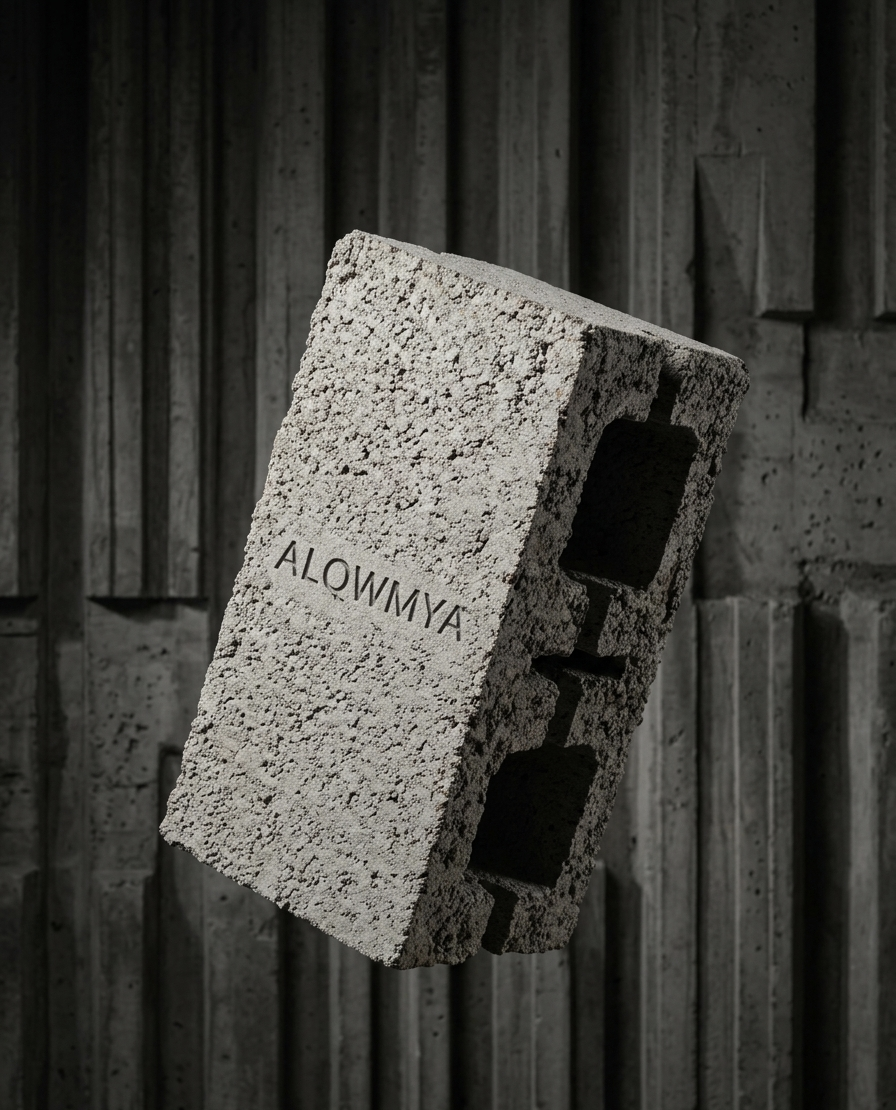
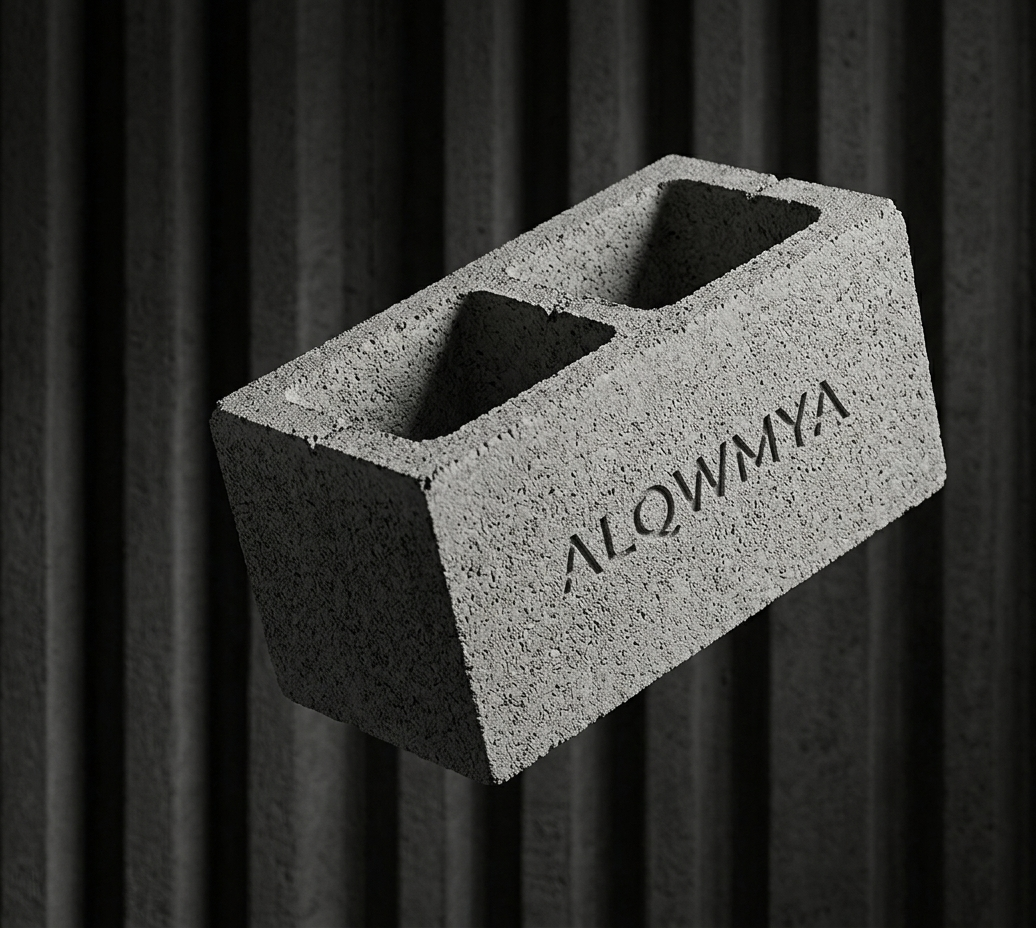
feat: set explicit image for 12 double hollow block

diff --git a/src/data/productsData.js b/src/data/productsData.js
@@ -249,9 +249,9 @@ export const productsData = {
             {
                 id: 'block-10',
                 name: 'بلوك أسمنتي مقاس 10',
-                image: '/images/بلوك اسمنتي مفرغ.png',
+                image: '/images/بلوك 10 مفرغ.png',
                 images: [
-                    '/images/بلوك اسمنتي مفرغ.png',
+                    '/images/بلوك 10 مفرغ.png',
                     '/images/بولك اسمنتي مفرغ 1.png'
                 ],
                 shortDescription: 'بلوك أسمنتي مفرغ مقاس 10، مناسب للقواطع الداخلية النحيفة لتوفير مساحة البناء.',
@@ -269,10 +269,10 @@ export const productsData = {
             {
                 id: 'block-12',
                 name: 'بلوك أسمنتي مقاس 12',
-                image: '/images/بلوك 12 اسمنتي مفرغ.png',
+                image: '/images/بلوك 12 مفرغ.png',
                 images: [
-                    '/images/بلوك 12 اسمنتي مفرغ.png',
                     '/images/بلوك 12 مفرغ.png',
+                    '/images/بلوك 12 اسمنتي مفرغ.png',
                     '/images/بلوك اسمنتي 12.jpg'
                 ],
                 shortDescription: 'بلوك أسمنتي مفرغ مقاس 12، الخيار الأمثل لتقسيم الغرف والحمامات والمطابخ.',
@@ -290,8 +290,9 @@ export const productsData = {
             {
                 id: 'block-12-double',
                 name: 'بلوك أسمنتي دبل مفرغ مقاس 12',
-                image: '/images/بلوك اسمنتي دبل مفرغ 12.png',
+                image: '/images/بلوك دبل مفرغ.png',
                 images: [
+                    '/images/بلوك دبل مفرغ.png',
                     '/images/بلوك اسمنتي دبل مفرغ 12.png',
                     '/images/بلوك 12 اسمنتي مفرغ.png'
                 ],
@@ -310,8 +311,9 @@ export const productsData = {
             {
                 id: 'block-15',
                 name: 'بلوك أسمنتي مقاس 15',
-                image: '/images/بولك اسمنتي مفرغ 1.png',
+                image: '/images/بلوك 15 مفرغ.png',
                 images: [
+                    '/images/بلوك 15 مفرغ.png',
                     '/images/بولك اسمنتي مفرغ 1.png',
                     '/images/بلوك اسمنتي مفرغ.png'
                 ],
@@ -330,8 +332,9 @@ export const productsData = {
             {
                 id: 'block-20',
                 name: 'بلوك أسمنتي مقاس 20',
-                image: '/images/بلوك اسمنتي مفرغ.png',
+                image: '/images/بلوك  20 مفرغ.png',
                 images: [
+                    '/images/بلوك  20 مفرغ.png',
                     '/images/بلوك اسمنتي مفرغ.png',
                     '/images/بولك اسمنتي مفرغ 1.png'
                 ],
@@ -350,8 +353,9 @@ export const productsData = {
             {
                 id: 'block-25',
                 name: 'بلوك أسمنتي مقاس 25',
-                image: '/images/بلوك 25 استي مفرغ.png',
+                image: '/images/بلوك 25  مفرع.png',
                 images: [
+                    '/images/بلوك 25  مفرع.png',
                     '/images/بلوك 25 استي مفرغ.png',
                     '/images/بلوك اسمنتي   25.jpg',
                     '/images/بلوك اسمنتي 25.jpg'